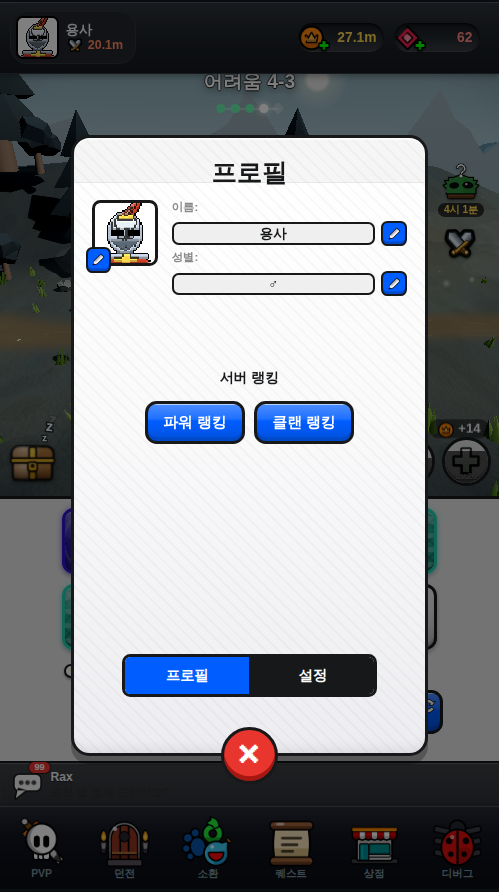
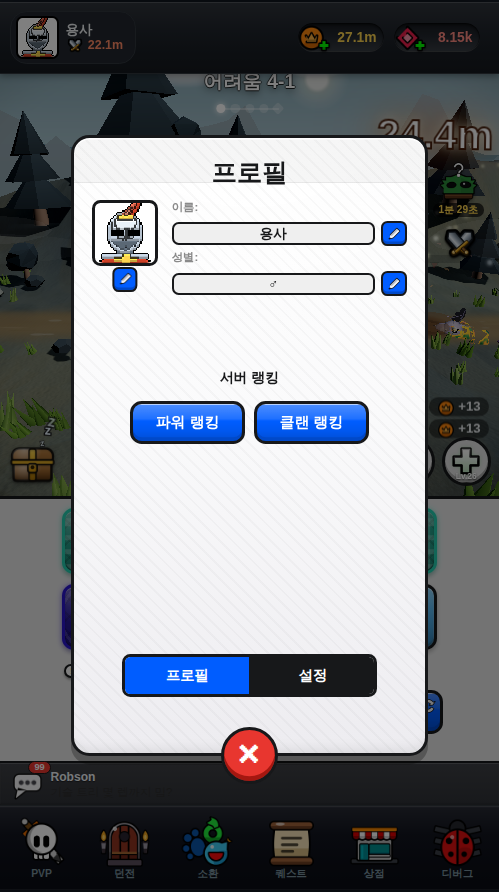
프로필 랭킹 버튼 폭 원본 실측치로(개당 18.84→21.77%W) + 아바타 연필 버튼을 원본대로 프레임 아래 가운데로 (ui-ratio-audit 채점 1차 교차검증 확정분)
Claude-Session: https://claude.ai/code/session_01EJPyPPvCkDp4nEfpsx176M

diff --git a/web/css/style.css b/web/css/style.css
@@ -2657,7 +2657,10 @@ body {
     display: flex; align-items: center; justify-content: center; font-size: .75rem; box-shadow: inset 0 -.15rem 0 var(--pp-blue-dk);
 }
 .profile-edit-btn .ico { width: 76%; height: 76%; margin: 0; vertical-align: top; }
-.profile-avatar-box .profile-edit-btn { position: absolute; bottom: -.4rem; left: -.4rem; }
+/* 원본(042724) 실측: 연필은 아바타 프레임 **아래 가운데**다 — 연필 중심 x 130.5 = 아바타 중심 130,
+   버튼 하단이 프레임 하단보다 25px 아래(전수 검증 채점 1차, 2인 공통 지적·픽셀 교차검증).
+   종전 좌하 모서리 겹침(bottom/left -.4rem)은 클론만의 배치였다. */
+.profile-avatar-box .profile-edit-btn { position: absolute; bottom: -1.55rem; left: 50%; transform: translateX(-50%); }
 /* 원본 이름칸↔성별칸 피치는 5.15%H(46px)인데 gap .5rem(라벨·칸 사이 3군데 = 24px)이면 6.50%H로 +1.35%p —
    두 칸만으로도 아래 블록이 밀린다. */
 .profile-fields { flex: 1; display: flex; flex-direction: column; gap: .25rem; min-width: 0; }
@@ -2695,7 +2698,9 @@ body {
    .9rem(14px)이면 랭킹 라벨·버튼이 4.5%p 위로 붙어 카드 아래쪽 여백만 커졌다. 화면 높이 비례로 잡는다. */
 .profile-rank-label { text-align: center; font-weight: 800; font-size: .82rem; color: var(--pp-ink); margin: calc(var(--app-h) * .0735) 0 .35rem; }
 .profile-rank-row { display: flex; gap: .5rem; justify-content: center; }
-.profile-rank-row .btn { flex: 0 1 32%; } /* 원본 ≈22% W 컴팩트 중앙 (185) */
+/* 원본(042724) 파랑 채움 실측 108px = 21.77%W(개당) · 틈 16px — flex-basis 32%(카드 기준)는 앱 폭
+   기준으로 18.84%W 라 −2.93%p 로 좁았다(전수 검증 채점 1차, 픽셀 교차검증). +6.6px 는 키라인 몫. */
+.profile-rank-row .btn { flex: 0 0 auto; width: calc(var(--app-w) * .2177 + 6.6px); }
 .avatar-pick-grid { display: grid; grid-template-columns: repeat(6, 1fr); gap: .3rem; margin: .5rem 0; }
 .avatar-pick-btn {
     background: #fff; border: var(--ol2) solid var(--pp-line); border-radius: .4rem; font-size: 1.3rem;
